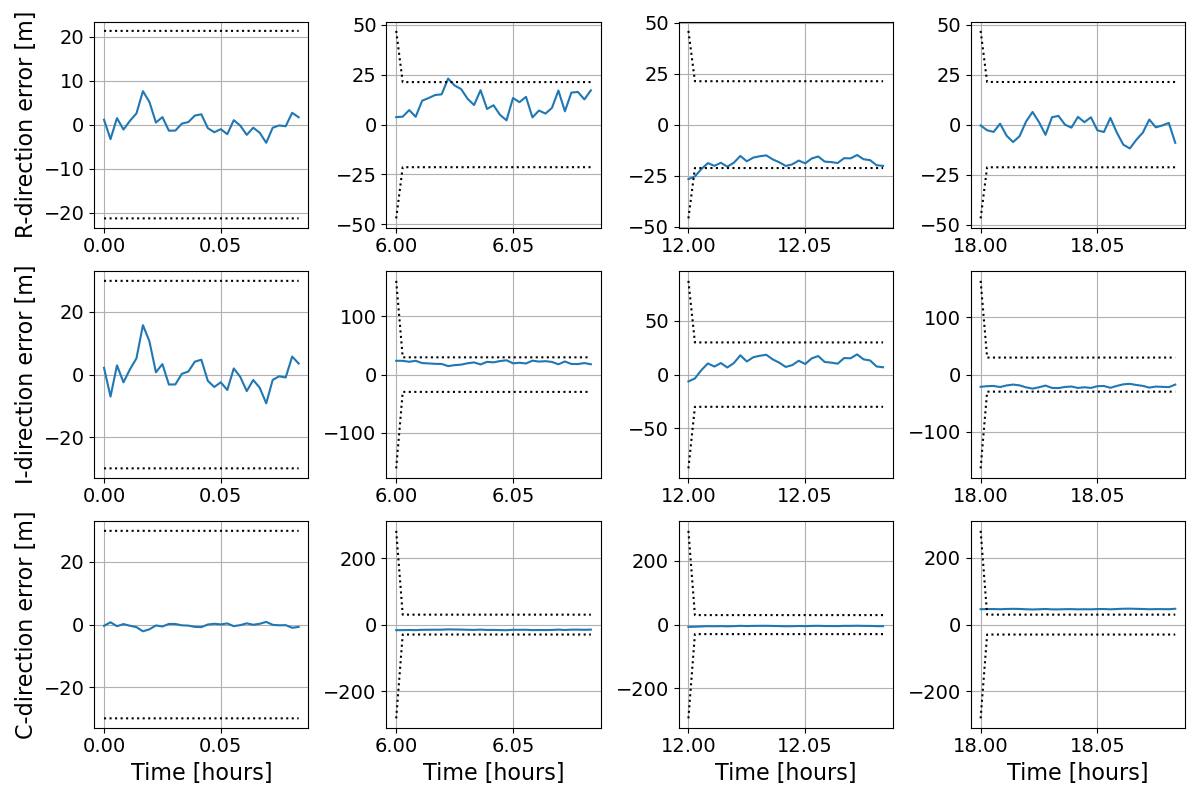
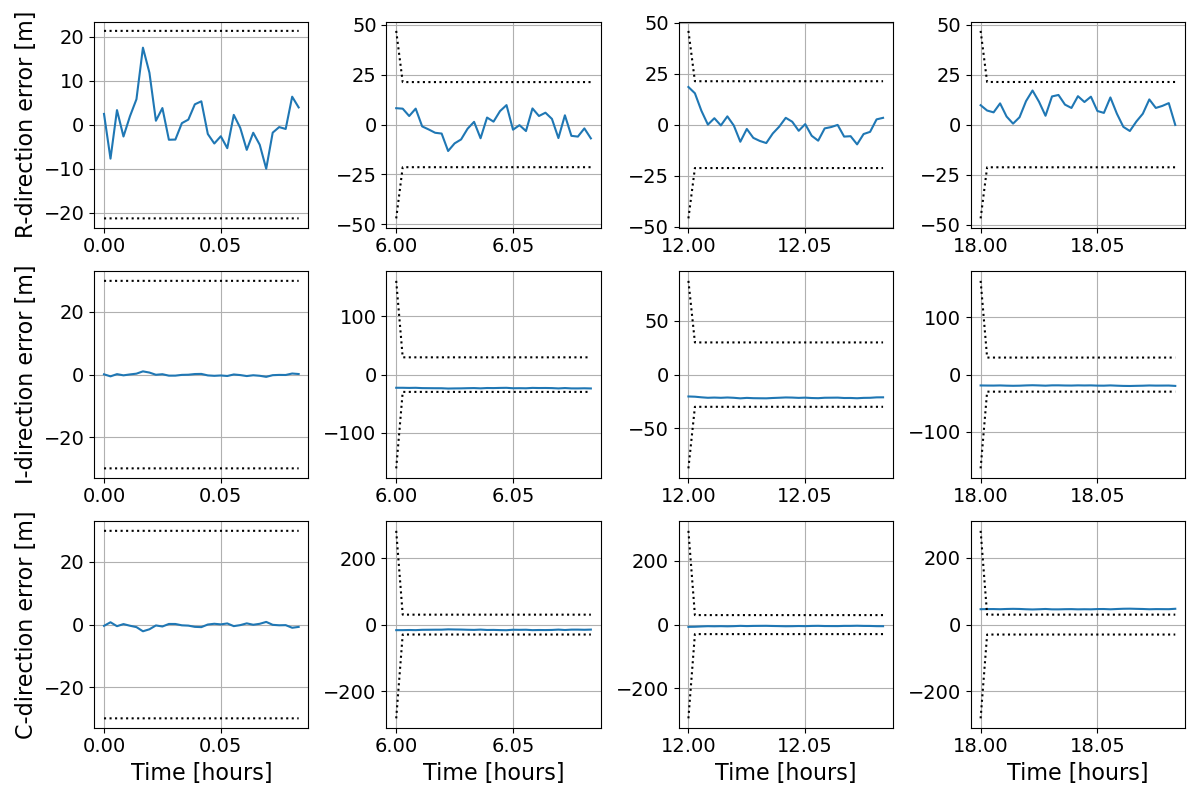
Code fix

diff --git a/question_2.py b/question_2.py
@@ -69,28 +69,23 @@ def analysis(truth_state, state, meas,
         [(filter_output[t])['covar'].reshape(1, 36) for t in time])
     state = np.vstack(
         [(filter_output[t])['state'].reshape(1, 6) for t in time])
-    # dummy = len((filter_output[time[0]])['resids'])
-    # resids = np.vstack(
-    #     [(filter_output[t])['resids'].reshape(1, dummy) for t in time])
-    state_ric_pos = np.zeros((len(time), 3))
-    # state_ric_vel = np.zeros((len(time), 3))
+    dummy = len((filter_output[time[0]])['resids'])
+    resid = np.vstack(
+        [(filter_output[t])['resids'].reshape(1, dummy) for t in time])
 
-    truth_state_ric_pos = np.zeros((len(time), 3))
-    # truth_state_ric_vel = np.zeros((len(time), 3))
+    error_ric = np.zeros((len(time), 3))
+
+    error = truth_state - state
 
     cov_pos_ric = np.zeros((len(time), 9))
-    # cov_vel_ric = np.zeros((len(time), 9))
 
     for i in range(len(time)):
         # int state
-        state_ric_pos[i, :] = util.eci2ric(
-            state[i, 0:3], state[i, 3:6], state[i, :3]).reshape(1, 3)
+        error_ric[i, :] = util.eci2ric(
+            state[i, 0:3], state[i, 3:6], error[i, :3]).reshape(1, 3)
         # state_ric_vel[i, :] = util.eci2ric(
         #     state[i, 0:3], state[i, 3:6], state[i, 3:6]).reshape(1, 3)
         # true state
-        truth_state_ric_pos[i, :] = util.eci2ric(
-            truth_state[i, 0:3], truth_state[i, 3:6],
-            truth_state[i, :3]).reshape(1, 3)
         # truth_state_ric_vel[i, :] = util.eci2ric(
         #     truth_state[i, 0:3], truth_state[i, 3:6],
         #     truth_state[i, 3:6]).reshape(1, 3)
@@ -105,7 +100,6 @@ def analysis(truth_state, state, meas,
     sigma_bound_pos = 3 * np.sqrt(cov_pos_ric)
     # sigma_bound_vel = 3 * np.sqrt(np.sum(np.diag(cov_vel_ric)))
     # residuals
-    resid = truth_state - state
     # RMS_pos_ = np.sqrt(np.sum(resids[:, 0:3] ** 2) / len(time))
     # RMS_vel_ = np.sqrt(np.sum(resids[:, 3:6] ** 2) / len(time))
     # print(RMS_pos_)
@@ -122,15 +116,15 @@ def analysis(truth_state, state, meas,
         # plotting 1
         time_rel = (time - time[0]) / 3600
         fig, (ax1, ax2, ax3) = plt.subplots(3, 1)
-        ax1.plot(time_rel, resid[:, 0])
+        ax1.plot(time_rel, error_ric[:, 0])
         ax1.plot(time_rel, sigma_bound_pos[:, 0], 'k:')
         ax1.plot(time_rel, -sigma_bound_pos[:, 0], 'k:')
         ax1.grid()
-        ax2.plot(time_rel, resid[:, 1])
+        ax2.plot(time_rel, error_ric[:, 1])
         ax2.plot(time_rel, sigma_bound_pos[:, 4], 'k:')
         ax2.plot(time_rel, -sigma_bound_pos[:, 4], 'k:')
         ax2.grid()
-        ax3.plot(time_rel, resid[:, 2])
+        ax3.plot(time_rel, error_ric[:, 2])
         ax3.plot(time_rel, sigma_bound_pos[:, 8], 'k:')
         ax3.plot(time_rel, -sigma_bound_pos[:, 8], 'k:')
         ax3.grid()
@@ -141,59 +135,59 @@ def analysis(truth_state, state, meas,
               (ax9, ax10, ax11, ax12)) = plt.subplots(
             3, 4, figsize=(12, 8))
         # R direction
-        ax1.plot(time_rel[:31], resid[:31, 0])
+        ax1.plot(time_rel[:31], error_ric[:31, 0])
         ax1.plot(time_rel[:31], sigma_bound_pos[:31, 0], 'k:')
         ax1.plot(time_rel[:31], -sigma_bound_pos[:31, 0], 'k:')
         ax1.grid()
         ax1.set_ylabel('R-direction error [m]')
-        ax2.plot(time_rel[31:62], resid[31:62, 0])
+        ax2.plot(time_rel[31:62], error_ric[31:62, 0])
         ax2.plot(time_rel[31:62], sigma_bound_pos[31:62, 0], 'k:')
         ax2.plot(time_rel[31:62], -sigma_bound_pos[31:62, 0], 'k:')
         ax2.grid()
-        ax3.plot(time_rel[62:93], resid[62:93, 0])
+        ax3.plot(time_rel[62:93], error_ric[62:93, 0])
         ax3.plot(time_rel[62:93], sigma_bound_pos[62:93, 0], 'k:')
         ax3.plot(time_rel[62:93], -sigma_bound_pos[62:93, 0], 'k:')
         ax3.grid()
-        ax4.plot(time_rel[93:], resid[93:, 0])
+        ax4.plot(time_rel[93:], error_ric[93:, 0])
         ax4.plot(time_rel[93:], sigma_bound_pos[93:, 0], 'k:')
         ax4.plot(time_rel[93:], -sigma_bound_pos[93:, 0], 'k:')
         ax4.grid()
         # I direction
-        ax5.plot(time_rel[:31], resid[:31, 1])
+        ax5.plot(time_rel[:31], error_ric[:31, 1])
         ax5.set_ylabel('I-direction error [m]')
         ax5.plot(time_rel[:31], sigma_bound_pos[:31, 4], 'k:')
         ax5.plot(time_rel[:31], -sigma_bound_pos[:31, 4], 'k:')
         ax5.grid()
-        ax6.plot(time_rel[31:62], resid[31:62, 1])
+        ax6.plot(time_rel[31:62], error_ric[31:62, 1])
         ax6.plot(time_rel[31:62], sigma_bound_pos[31:62, 4], 'k:')
         ax6.plot(time_rel[31:62], -sigma_bound_pos[31:62, 4], 'k:')
         ax6.grid()
-        ax7.plot(time_rel[62:93], resid[62:93, 1])
+        ax7.plot(time_rel[62:93], error_ric[62:93, 1])
         ax7.plot(time_rel[62:93], sigma_bound_pos[62:93, 4], 'k:')
         ax7.plot(time_rel[62:93], -sigma_bound_pos[62:93, 4], 'k:')
         ax7.grid()
-        ax8.plot(time_rel[93:], resid[93:, 1])
+        ax8.plot(time_rel[93:], error_ric[93:, 1])
         ax8.plot(time_rel[93:], sigma_bound_pos[93:, 4], 'k:')
         ax8.plot(time_rel[93:], -sigma_bound_pos[93:, 4], 'k:')
         ax8.grid()
         # C direction
-        ax9.plot(time_rel[:31], resid[:31, 2])
+        ax9.plot(time_rel[:31], error_ric[:31, 2])
         ax9.plot(time_rel[:31], sigma_bound_pos[:31, 8], 'k:')
         ax9.plot(time_rel[:31], -sigma_bound_pos[:31, 8], 'k:')
         ax9.set_ylabel('C-direction error [m]')
         ax9.set_xlabel('Time [hours]')
         ax9.grid()
-        ax10.plot(time_rel[31:62], resid[31:62, 2])
+        ax10.plot(time_rel[31:62], error_ric[31:62, 2])
         ax10.plot(time_rel[31:62], sigma_bound_pos[31:62, 8], 'k:')
         ax10.plot(time_rel[31:62], -sigma_bound_pos[31:62, 8], 'k:')
         ax10.set_xlabel('Time [hours]')
         ax10.grid()
-        ax11.plot(time_rel[62:93], resid[62:93, 2])
+        ax11.plot(time_rel[62:93], error_ric[62:93, 2])
         ax11.plot(time_rel[62:93], sigma_bound_pos[62:93, 8], 'k:')
         ax11.plot(time_rel[62:93], -sigma_bound_pos[62:93, 8], 'k:')
         ax11.set_xlabel('Time [hours]')
         ax11.grid()
-        ax12.plot(time_rel[93:], resid[93:, 2])
+        ax12.plot(time_rel[93:], error_ric[93:, 2])
         ax12.plot(time_rel[93:], sigma_bound_pos[93:, 8], 'k:')
         ax12.plot(time_rel[93:], -sigma_bound_pos[93:, 8], 'k:')
         ax12.set_xlabel('Time [hours]')
@@ -202,8 +196,6 @@ def analysis(truth_state, state, meas,
         plt.savefig('plots/' + name + '_error_sparse.png')
 
         if mtype == 'rad':
-            meas_val = np.asarray(meas['Yk_list']).reshape(124, 3)
-            resid = (state_ric_pos - meas_val)
 
             fig, ((ax1, ax2, ax3, ax4), (ax5, ax6, ax7, ax8),
                 (ax9, ax10, ax11, ax12)) = plt.subplots(
@@ -246,59 +238,37 @@ def analysis(truth_state, state, meas,
             plt.savefig('plots/' + name + '_residuals.png')
 
         elif mtype == 'opt':
-            ra, dec = xyz_to_radec_rad(state_ric_pos, time_rel*3600)
-            meas_val = np.asarray(meas['Yk_list'])
-            resid_ra = np.mod(
-                np.abs(ra - meas_val[:, 0]), 2*np.pi) * rad2arcsec
-            resid_dec = np.mod(
-                np.abs(dec - meas_val[:, 1]), 2*np.pi) * rad2arcsec
+
             fig, ((ax1, ax2, ax3, ax4), (ax5, ax6, ax7, ax8)) = plt.subplots(
                 2, 4, figsize=(16, 10))
             # R direction
-            ax1.scatter(time_rel[:31], resid_ra[:31, 0])
+            ax1.scatter(time_rel[:31], resid[:31, 0])
             ax1.set_ylabel('RA residuals (arcsec)')
             ax1.grid()
-            ax2.scatter(time_rel[31:62], resid_ra[31:62, 0])
+            ax2.scatter(time_rel[31:62], resid[31:62, 0])
             ax2.grid()
-            ax3.scatter(time_rel[62:93], resid_ra[62:93, 0])
+            ax3.scatter(time_rel[62:93], resid[62:93, 0])
             ax3.grid()
-            ax4.scatter(time_rel[93:], resid_ra[93:, 0])
+            ax4.scatter(time_rel[93:], resid[93:, 0])
             ax4.grid()
             # I direction
-            ax5.scatter(time_rel[:31], resid_dec[:31, 1])
+            ax5.scatter(time_rel[:31], resid[:31, 1])
             ax5.set_ylabel('DEC residuals (arcsec)')
             ax5.set_xlabel('Time [hours]')
             ax5.grid()
-            ax6.scatter(time_rel[31:62], resid_dec[31:62, 1])
+            ax6.scatter(time_rel[31:62], resid[31:62, 1])
             ax6.set_xlabel('Time [hours]')
             ax6.grid()
-            ax7.scatter(time_rel[62:93], resid_dec[62:93, 1])
+            ax7.scatter(time_rel[62:93], resid[62:93, 1])
             ax7.set_xlabel('Time [hours]')
             ax7.grid()
-            ax8.scatter(time_rel[93:], resid_dec[93:, 1])
+            ax8.scatter(time_rel[93:], resid[93:, 1])
             ax8.set_xlabel('Time [hours]')
             ax8.grid()
             plt.tight_layout()
             plt.savefig('plots/' + name + '_residuals.png')
 
     return RMS_pos, RMS_vel
-
-
-def xyz_to_radec_rad(pos, time):
-    # Calculate the Declination in radians
-    x = pos[:, 0]
-    y = pos[:, 1]
-    z = pos[:, 2]
-    dec = np.arcsin(z / np.sqrt(x ** 2 + y ** 2 + z ** 2))
-    # Calculate the Right Ascension in radians
-    theta0 = 0.
-    dtheta = 7.2921158553e-5
-    # RA is the arctan of Y divided by X
-    ra = np.arctan2(y, x) - np.arange(len(time))*10*dtheta
-
-    # Ensure RA is between 0 and 2π
-
-    return ra, dec
 
 
 # Radar A
